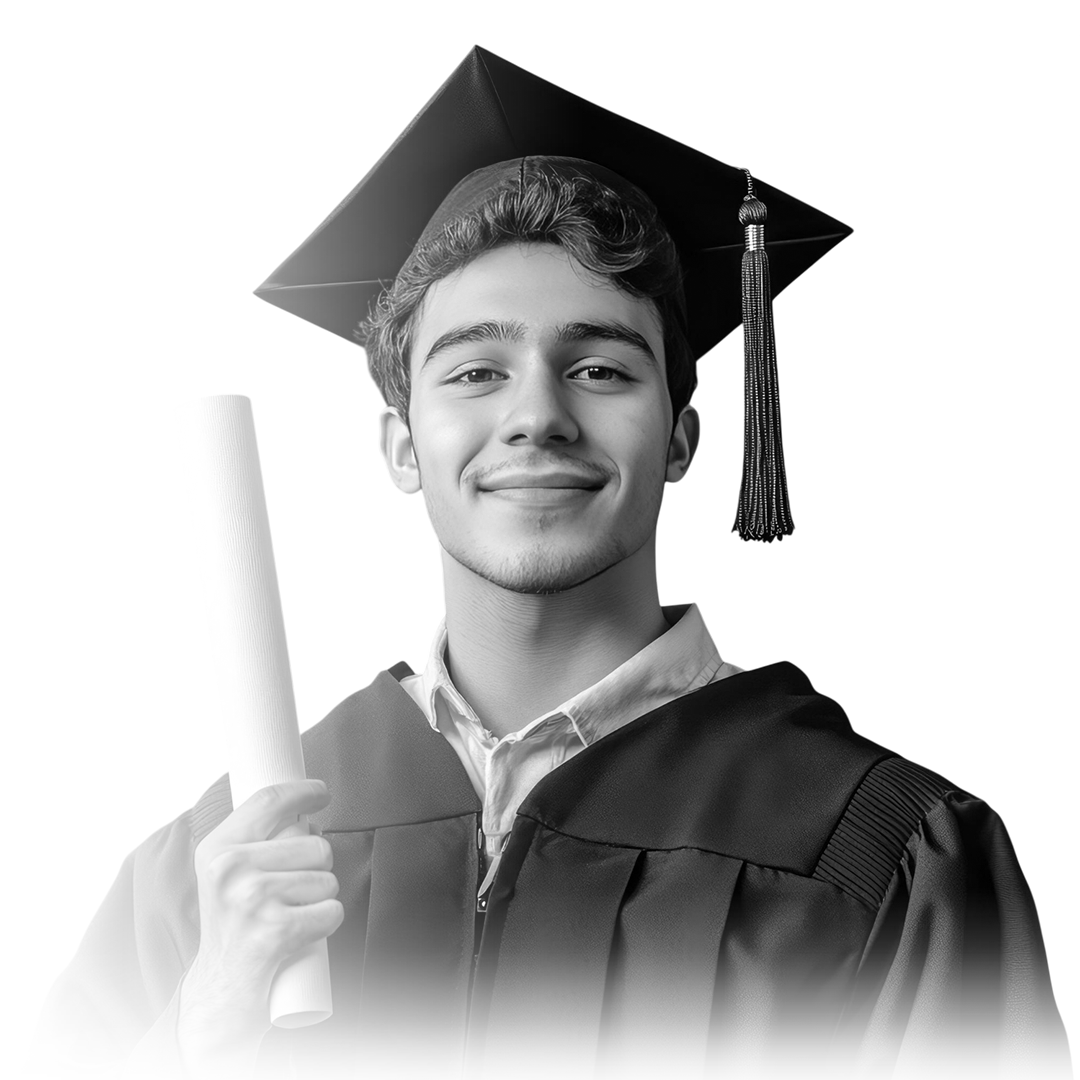
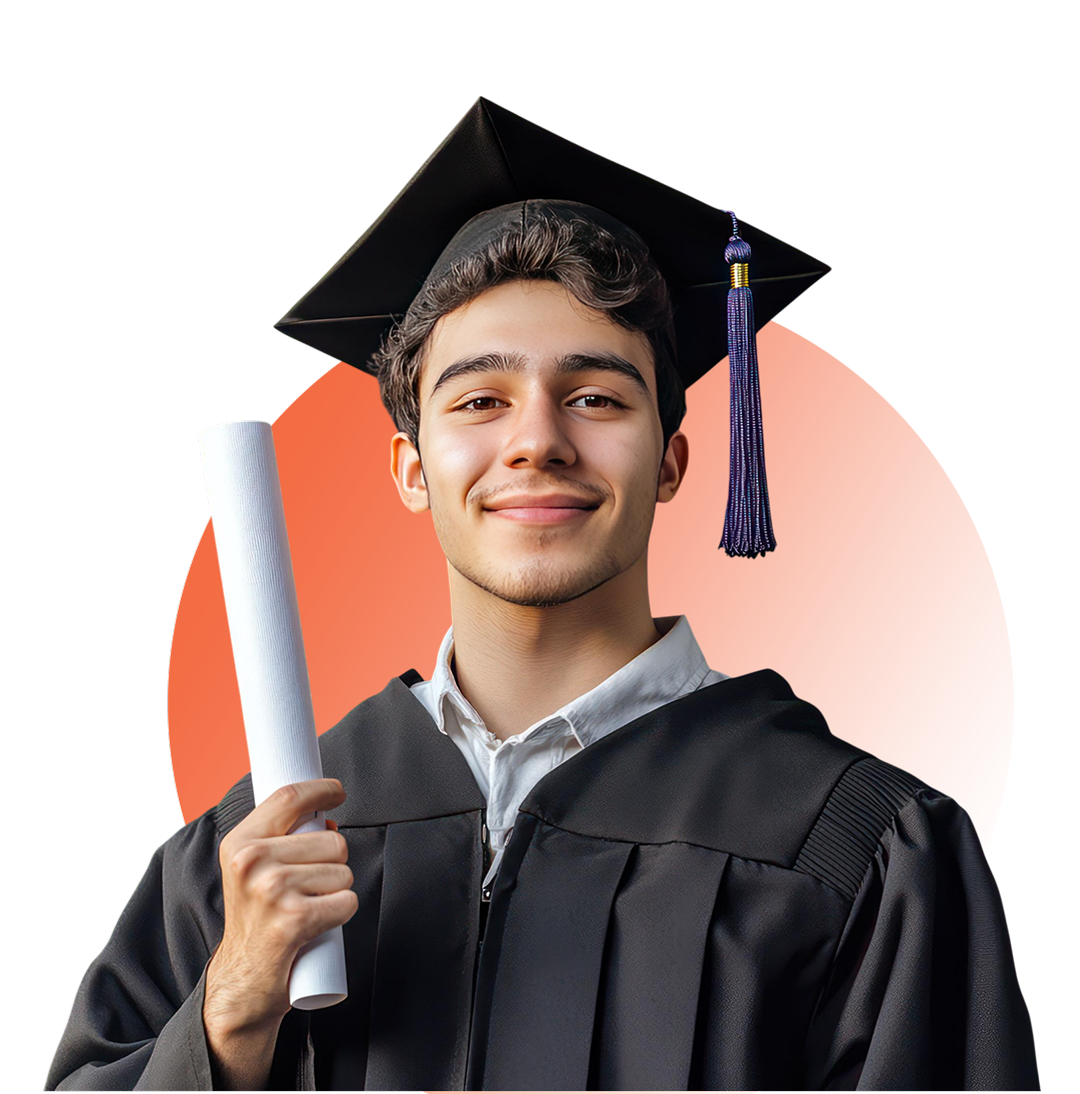
updata

diff --git a/app/components/registration-section.tsx b/app/components/registration-section.tsx
@@ -446,7 +446,7 @@ export function RegistrationSection({ data }: any) {
           </div>
           <button
             onClick={restart}
-            className="px-6 py-3 text-white rounded-xl font-semibold transition-all shadow-lg hover:shadow-xl"
+            className="px-6 py-2 text-white rounded-xl font-semibold transition-all shadow-lg hover:shadow-xl"
             style={{ background: `linear-gradient(135deg, ${primaryColor}, ${primaryColor}dd)` }}
           >
             Submit Another Enquiry
@@ -457,20 +457,20 @@ export function RegistrationSection({ data }: any) {
   }
 
   return (
-    <section className="min-h-screen bg-gradient-to-br from-gray-50 via-white to-gray-50 py-20 px-4">
+    <section className="  py-12 px-4">
       <div className="max-w-7xl mx-auto flex flex-col lg:flex-row items-start gap-8 lg:gap-12">
         {/* Left Side - Image/Illustration */}
         <motion.div
           initial={{ opacity: 0, x: -50 }}
           animate={{ opacity: 1, x: 0 }}
           transition={{ duration: 0.6 }}
-          className="hidden lg:block lg:w-1/2 sticky top-32"
+          className="hidden lg:block lg:w-1/2  m-auto top-32"
         >
           <div className="relative">
             <img
               src={data?.fields?.Formsection ?? "/home/1.png"}
               alt="Registration"
-              className="relative w-full h-[60%] rounded-2xl shadow-2xl"
+              className="relative w-full h-[60%] "
             />
             <motion.div
               animate={{ y: [0, -10, 0] }}
@@ -570,7 +570,7 @@ export function RegistrationSection({ data }: any) {
                                 <select
                                   value={formData[field.name] as string || ""}
                                   onChange={(e) => updateField(field.name, e.target.value)}
-                                  className="w-full border-2 border-gray-200 rounded-xl px-4 py-3 text-sm focus:outline-none transition-all bg-gray-50 hover:bg-white"
+                                  className="w-full border-2 border-gray-200 rounded-xl px-4 py-2 text-sm focus:outline-none transition-all bg-gray-50 hover:bg-white"
                                   style={{ borderColor: "#e5e7eb" }}
                                   onFocus={(e) => {
                                     e.target.style.borderColor = primaryColor;
@@ -603,7 +603,7 @@ export function RegistrationSection({ data }: any) {
                                     type="text"
                                     value={formData[field.name] as string || ""}
                                     onChange={(e) => updateField(field.name, e.target.value)}
-                                    className="w-full border-2 border-gray-200 rounded-xl pl-10 pr-4 py-3 text-sm focus:outline-none transition-all bg-gray-50 hover:bg-white"
+                                    className="w-full border-2 border-gray-200 rounded-xl pl-10 pr-4 py-2 text-sm focus:outline-none transition-all bg-gray-50 hover:bg-white"
                                     style={{ borderColor: "#e5e7eb" }}
                                     onFocus={(e) => {
                                       e.target.style.borderColor = primaryColor;
@@ -632,7 +632,7 @@ export function RegistrationSection({ data }: any) {
                                     type="email"
                                     value={formData[field.name] as string || ""}
                                     onChange={(e) => updateField(field.name, e.target.value)}
-                                    className="w-full border-2 border-gray-200 rounded-xl pl-10 pr-4 py-3 text-sm focus:outline-none transition-all bg-gray-50 hover:bg-white"
+                                    className="w-full border-2 border-gray-200 rounded-xl pl-10 pr-4 py-2 text-sm focus:outline-none transition-all bg-gray-50 hover:bg-white"
                                     style={{ borderColor: "#e5e7eb" }}
                                     onFocus={(e) => {
                                       e.target.style.borderColor = primaryColor;
@@ -661,7 +661,7 @@ export function RegistrationSection({ data }: any) {
                                     type="tel"
                                     value={formData[field.name] as string || ""}
                                     onChange={(e) => updateField(field.name, e.target.value)}
-                                    className="w-full border-2 border-gray-200 rounded-xl pl-10 pr-4 py-3 text-sm focus:outline-none transition-all bg-gray-50 hover:bg-white"
+                                    className="w-full border-2 border-gray-200 rounded-xl pl-10 pr-4 py-2 text-sm focus:outline-none transition-all bg-gray-50 hover:bg-white"
                                     style={{ borderColor: "#e5e7eb" }}
                                     onFocus={(e) => {
                                       e.target.style.borderColor = primaryColor;
@@ -690,7 +690,7 @@ export function RegistrationSection({ data }: any) {
                                     type="number"
                                     value={formData[field.name] as string || ""}
                                     onChange={(e) => updateField(field.name, e.target.value)}
-                                    className="w-full border-2 border-gray-200 rounded-xl pl-10 pr-4 py-3 text-sm focus:outline-none transition-all bg-gray-50 hover:bg-white"
+                                    className="w-full border-2 border-gray-200 rounded-xl pl-10 pr-4 py-2 text-sm focus:outline-none transition-all bg-gray-50 hover:bg-white"
                                     style={{ borderColor: "#e5e7eb" }}
                                     onFocus={(e) => {
                                       e.target.style.borderColor = primaryColor;
@@ -719,7 +719,7 @@ export function RegistrationSection({ data }: any) {
                                     type="date"
                                     value={formData[field.name] as string || ""}
                                     onChange={(e) => updateField(field.name, e.target.value)}
-                                    className="w-full border-2 border-gray-200 rounded-xl pl-10 pr-4 py-3 text-sm focus:outline-none transition-all bg-gray-50 hover:bg-white"
+                                    className="w-full border-2 border-gray-200 rounded-xl pl-10 pr-4 py-2 text-sm focus:outline-none transition-all bg-gray-50 hover:bg-white"
                                     style={{ borderColor: "#e5e7eb" }}
                                     onFocus={(e) => {
                                       e.target.style.borderColor = primaryColor;
@@ -745,7 +745,7 @@ export function RegistrationSection({ data }: any) {
                                   value={formData[field.name] as string || ""}
                                   onChange={(e) => updateField(field.name, e.target.value)}
                                   rows={4}
-                                  className="w-full border-2 border-gray-200 rounded-xl px-4 py-3 text-sm focus:outline-none transition-all bg-gray-50 hover:bg-white resize-none"
+                                  className="w-full border-2 border-gray-200 rounded-xl px-4 py-2 text-sm focus:outline-none transition-all bg-gray-50 hover:bg-white resize-none"
                                   style={{ borderColor: "#e5e7eb" }}
                                   onFocus={(e) => {
                                     e.target.style.borderColor = primaryColor;
@@ -851,7 +851,7 @@ export function RegistrationSection({ data }: any) {
                       whileHover={{ scale: 1.05 }}
                       whileTap={{ scale: 0.95 }}
                       onClick={prevStep}
-                      className="px-6 py-3 text-sm font-semibold text-gray-700 bg-gray-100 rounded-xl hover:bg-gray-200 transition-all flex items-center gap-2"
+                      className="px-6 py-2 text-sm font-semibold text-gray-700 bg-gray-100 rounded-xl hover:bg-gray-200 transition-all flex items-center gap-2"
                     >
                       <ArrowLeft className="w-4 h-4" />
                       Back
@@ -866,7 +866,7 @@ export function RegistrationSection({ data }: any) {
                       whileHover={{ scale: 1.05 }}
                       whileTap={{ scale: 0.95 }}
                       onClick={nextStep}
-                      className="px-8 py-3 text-sm font-bold text-white rounded-xl transition-all shadow-lg hover:shadow-xl flex items-center gap-2"
+                      className="px-8 py-2 text-sm font-bold text-white rounded-xl transition-all shadow-lg hover:shadow-xl flex items-center gap-2"
                       style={{ 
                         background: `linear-gradient(135deg, ${primaryColor}, ${primaryColor}dd)`
                       }}
@@ -880,7 +880,7 @@ export function RegistrationSection({ data }: any) {
                       disabled={isLoading}
                       whileHover={{ scale: 1.05 }}
                       whileTap={{ scale: 0.95 }}
-                      className="px-8 py-3 text-sm font-bold text-white rounded-xl transition-all shadow-lg hover:shadow-xl disabled:opacity-50 disabled:cursor-not-allowed flex items-center gap-2"
+                      className="px-8 py-2 text-sm font-bold text-white rounded-xl transition-all shadow-lg hover:shadow-xl disabled:opacity-50 disabled:cursor-not-allowed flex items-center gap-2"
                       style={{ 
                         background: `linear-gradient(135deg, ${primaryColor}, ${primaryColor}dd)`
                       }}

diff --git a/app/components/hero.tsx b/app/components/hero.tsx
@@ -62,14 +62,14 @@ function FloatingBadge({ icon: Icon, label, value, position, delay }: {
       <motion.div
         animate={{ y: [0, -8, 0] }}
         transition={{ duration: 3, repeat: Infinity, ease: "easeInOut", delay }}
-        className="bg-white/10 backdrop-blur-xl border border-white/15 rounded-2xl px-3.5 py-2.5 sm:px-4 sm:py-3 shadow-xl shadow-black/20"
+        className="bg-[#FEF9F] backdrop-blur-xl border border-white/15 rounded-2xl px-3.5 py-2.5 sm:px-4 sm:py-3 shadow-xl shadow-black/20"
       >
         <div className="flex items-center gap-2 sm:gap-2.5">
           <div className="w-8 h-8 sm:w-10 sm:h-10 rounded-xl bg-[#F36C45]/20 flex items-center justify-center">
             <Icon size={16} className="text-[#F36C45] sm:w-5 sm:h-5" />
           </div>
           <div>
-            <p className="text-white font-bold text-sm sm:text-base leading-tight">{value}</p>
+            <p className="text-black font-bold text-sm sm:text-base leading-tight">{value}</p>
             <p className="text-gray-400 text-[10px] sm:text-xs">{label}</p>
           </div>
         </div>
@@ -157,7 +157,7 @@ export function Hero({ data, student }: HeroProps) {
   ];
 
   return (
-    <section className="relative overflow-hidden min-h-screen flex flex-col bg-[#3f3f3f] ">
+    <section className="relative overflow-hidden flex flex-col bg-[#FDF4EF] ">
       {/* ─── Background Layer ─── */}
       {/* <div className="absolute inset-0 bg-[#3f3f3f]">
         
@@ -190,7 +190,7 @@ export function Hero({ data, student }: HeroProps) {
       {/* ─── Main Content ─── */}
       <div className="relative z-10 flex-1 flex flex-col justify-center px-4 sm:px-6 md:px-10 lg:px-16 xl:px-24 py-16 lg:py-0">
         <div className="max-w-7xl mx-auto w-full">
-          <div className="grid grid-cols-1 lg:grid-cols-2 gap-10 lg:gap-12 xl:gap-20 items-center">
+          <div className="grid grid-cols-1 lg:grid-cols-2  items-center">
 
             {/* ─── Left Content ─── */}
             <motion.div
@@ -204,7 +204,8 @@ export function Hero({ data, student }: HeroProps) {
                 initial={{ opacity: 0, y: 20, scale: 0.9 }}
                 animate={{ opacity: 1, y: 0, scale: 1 }}
                 transition={{ delay: 0.3, type: "spring", stiffness: 200 }}
-                className="inline-flex items-center gap-2.5 bg-[#F36C45]/10 border border-[#F36C45]/20 rounded-full px-5 py-2 mb-7 backdrop-blur-sm"
+                className="inline-flex items-center gap-2.5 bg-[#F36C45]/10 border 
+                border-[#F36C45]/20 rounded-full px-5 py-2 mb-7 backdrop-blur-sm"
               >
                 <div className="relative flex">
                   <Star size={14} className="text-[#F36C45] fill-[#F36C45]" />
@@ -220,11 +221,14 @@ export function Hero({ data, student }: HeroProps) {
               </motion.div>
 
               {/* Title */}
-              <h1 className="text-2xl sm:text-3xl md:text-5xl  font-bold leading-[1.08] tracking-tight">
-                <span className="text-white">{data.fields.title || ""}</span>
+              <div className="text-black font-bold leading-[1.08] tracking-tight">
+                   <div
+                    className="text-center text-2xl md:text-3xl lg:text-6xl "
+                    dangerouslySetInnerHTML={{ __html: data.fields.title }}
+                  />
                 <br />
                 <span className="relative">
-                  <span className="bg-gradient-to-r from-[#F36C45] via-[#ff8a65] to-[#F36C45] bg-clip-text text-transparent bg-[length:200%_auto] animate-gradient-x">
+                  <span className=" text-black animate-gradient-x">
                     {data.fields.subtitle || ""}
                   </span>
                   <motion.div
@@ -234,14 +238,14 @@ export function Hero({ data, student }: HeroProps) {
                     className="absolute -bottom-2 left-0 right-0 h-1 bg-gradient-to-r from-[#F36C45] to-transparent rounded-full origin-left"
                   />
                 </span>
-              </h1>
+              </div>
 
               {/* Paragraph */}
               <motion.p
                 initial={{ opacity: 0, y: 20 }}
                 animate={{ opacity: 1, y: 0 }}
                 transition={{ delay: 0.5, duration: 0.8 }}
-                className="mt-6 lg:mt-7 text-base sm:text-lg text-gray-300/90 leading-relaxed max-w-xl font-light"
+                className="mt-6 lg:mt-7 text-base sm:text-lg text-gray-900/90 leading-relaxed max-w-xl font-[300]"
               >
                 {data.fields.paragraph || ""}
               </motion.p>
@@ -287,9 +291,9 @@ export function Hero({ data, student }: HeroProps) {
                 initial={{ opacity: 0, y: 15 }}
                 animate={{ opacity: 1, y: 0 }}
                 transition={{ delay: 1, duration: 0.8 }}
-                className="mt-10 flex items-center gap-5"
+                className="mt-10 flex items-center gap-5 bg-[#FEF9F5] p-4 w-fit"
               >
-                <div className="flex -space-x-2.5">
+                <div className="flex -space-x-2.5 ">
                   {[
                     "from-[#F36C45] to-[#ff8a65]",
                     "from-[#4ECDC4] to-[#45B7AA]",
@@ -310,7 +314,7 @@ export function Hero({ data, student }: HeroProps) {
                     +9k
                   </div>
                 </div>
-                <div className="border-l border-white/10 pl-5">
+                <div className="border-l border-white/10 pl-5 ">
                   <div className="flex gap-0.5">
                     {[1, 2, 3, 4, 5].map((i) => (
                       <Star key={i} size={13} className="text-yellow-400 fill-yellow-400" />
@@ -355,7 +359,7 @@ export function Hero({ data, student }: HeroProps) {
                     initial={{ opacity: 0, scale: 0.8 }}
                     animate={{ opacity: 1, scale: 1 }}
                     transition={{ delay: 0.6, duration: 1, ease: [0.22, 1, 0.36, 1] }}
-                    className="relative w-[120%] h-[130%] m-auto rounded-[2.5rem] overflow-hidden "
+                    className="relative w-[120%] h-[130%] m-auto  overflow-hidden "
                   >
                     {/* Graduation Hero Image */}
                     <img

diff --git a/app/(admin)/admin/components/editorForm.tsx b/app/(admin)/admin/components/editorForm.tsx
@@ -25,6 +25,8 @@ interface GeneralInfo {
   description: string;
   keywords: string;
   ogTitle: string;
+  navTitle: string;
+  navSubtitle:string;
   ogDescription: string;
   ogImage: string;
   canonicalUrl: string;
@@ -41,6 +43,8 @@ const EditorForm = ({ slug }: PageProps) => {
     title: "",
     description: "",
     keywords: "",
+    navTitle:"",
+    navSubtitle:"",
     ogTitle: "",
     ogDescription: "",
     ogImage: "",
@@ -616,6 +620,32 @@ const EditorForm = ({ slug }: PageProps) => {
                     onChange={(e) => handleGeneralInfoChange("keywords", e.target.value)}
                     className="w-full p-3 border rounded-xl"
                     placeholder="keyword1, keyword2, keyword3"
+                  />
+                </div>
+                
+                <div>
+                  <label className="block text-sm font-medium mb-2">
+                    Navbar Title
+                  </label>
+                  <input
+                    type="text"
+                    value={generalInfo.navTitle}
+                    onChange={(e) => handleGeneralInfoChange("navTitle", e.target.value)}
+                    className="w-full p-3 border rounded-xl"
+                    placeholder="Nav title"
+                  />
+                </div>
+
+                <div>
+                  <label className="block text-sm font-medium mb-2">
+                    Navbar Subtitle
+                  </label>
+                  <input
+                    type="text"
+                    value={generalInfo.navSubtitle}
+                    onChange={(e) => handleGeneralInfoChange("navSubtitle", e.target.value)}
+                    className="w-full p-3 border rounded-xl"
+                    placeholder="Nav title"
                   />
                 </div>
 

diff --git a/app/lib/pageData.ts b/app/lib/pageData.ts
@@ -10,7 +10,7 @@ export const pageData: any = {
         name: "Home-hero-section",
         label: "Hero",
         fields: [
-          { name: "title", label: "Hero Title", type: "text", required: false, placeholder: "Welcome to Our Platform" },
+          { name: "title", label: "Hero Title", type: "editor", required: false, placeholder: "Welcome to Our Platform" },
           { name: "subtitle", label: "Hero Subtitle", type: "text", required: false, placeholder: "Your journey to success starts here" },
           { name: "paragraph", label: "Hero paragraph", type: "textarea", required: false, placeholder: "" },
           { name: "experience", label: "Experience", type: "text", placeholder: "Enter the lable name || value" },
@@ -319,7 +319,6 @@ export const pageData: any = {
         fields: [
           { name: "slug", label: "Page Slug", type: "text", required: true, placeholder: "ielts-preparation" },
           { name: "category_name", label: "Category Name", type: "text", required: true, placeholder: "IELTS Preparation" },
-          { name: "nav_subtitle", label: "Nav Dropdown Subtitle", type: "text", required: true, placeholder: "Comprehensive IELTS coaching" },
           { name: "title", label: "Hero Title", type: "editor", required: false, placeholder: "Welcome to Our Platform" },
           { name: "paragraph", label: "Hero Paragraph", type: "textarea", required: false, placeholder: "" },
           { name: "heroImage", label: "Hero Image", type: "file", accept: "image/*" },

diff --git a/app/components/HomeCountUp.tsx b/app/components/HomeCountUp.tsx
@@ -96,15 +96,16 @@ export const HomeCountUp: React.FC<HomeCountUpProps> = ({
         whileInView={{ opacity: 1, y: 0 }}
         viewport={{ once: false, amount: 0.2 }}
         transition={{ duration: 0.6, delay: 0.2 }}
-        className="flex flex-wrap justify-center  mx-4 md:mx-16 gap-6 md:gap-16"
+        className="flex flex-wrap justify-center  mx-4 md:mx-16 gap-6 md:gap-16 bg-white p-4 md:p-6 
+        rounded-[20px] md:rounded-[26px] shadow-sm "
       >
         {countItems.map((item, idx) => {
           const { label, value, suffix } = getItemData(item.key);
           
           return (
-            <div key={idx} className="relative w-full sm:w-[15rem] md:min-w-[18rem]">
+            <div key={idx} className="relative w-full sm:w-[15rem] md:min-w-[18rem] ">
               {/* <div className="absolute w-full h-full border-2 border-[#F36C45] rounded-[20px] md:rounded-[26px] -rotate-3 md:-rotate-5" /> */}
-              <div className="bg-white p-4 md:p-6 rounded-[20px] md:rounded-[26px] text-center shadow-sm relative">
+              <div className="text-center relative">
                 <h2 className="text-2xl sm:text-3xl md:text-4xl font-bold text-[#F36C45] mb-1 md:mb-2">
                   {isVisible ? (
                     <CountUp 

diff --git a/app/components/navbar.tsx b/app/components/navbar.tsx
@@ -27,7 +27,7 @@ export function Navbar({ Data }: any) {
     Data?.filter(
       (item: any) => item?.seoMeta?.template?.toLowerCase() === "preparation",
     ) || [];
-  console.log(Data, "data");
+  console.log(NAVDATA, "data");
 
   const [isOpen, setIsOpen] = React.useState(false);
   const { user, course, logout, drawer, setDrawer } = useGlobal();
@@ -55,9 +55,9 @@ export function Navbar({ Data }: any) {
       href: "#",
       hasDropdown: true,
       dropdownItems: NAVDATA.map((item: any) => ({
-        name: item.seoMeta.title,
+        name: item.seoMeta.navTitle,
         slug: item.seoMeta.canonicalUrl,
-        description: item.seoMeta.description,
+        description: item.seoMeta.navSubtitle,
       })),
     },
     { name: "Blogs", href: "/blog" },

diff --git a/app/lib/axios.ts b/app/lib/axios.ts
@@ -1,6 +1,6 @@
 import axios from "axios";
 
-let mode = "dev2" ;
+let mode = "dev" ;
 const getBaseURL = () => {
   if (mode === "dev") {
     return "http://localhost:3000/api";

diff --git a/app/(main)/page.tsx b/app/(main)/page.tsx
@@ -79,3 +79,4 @@ export default async function Home() {
 
 
 
+
